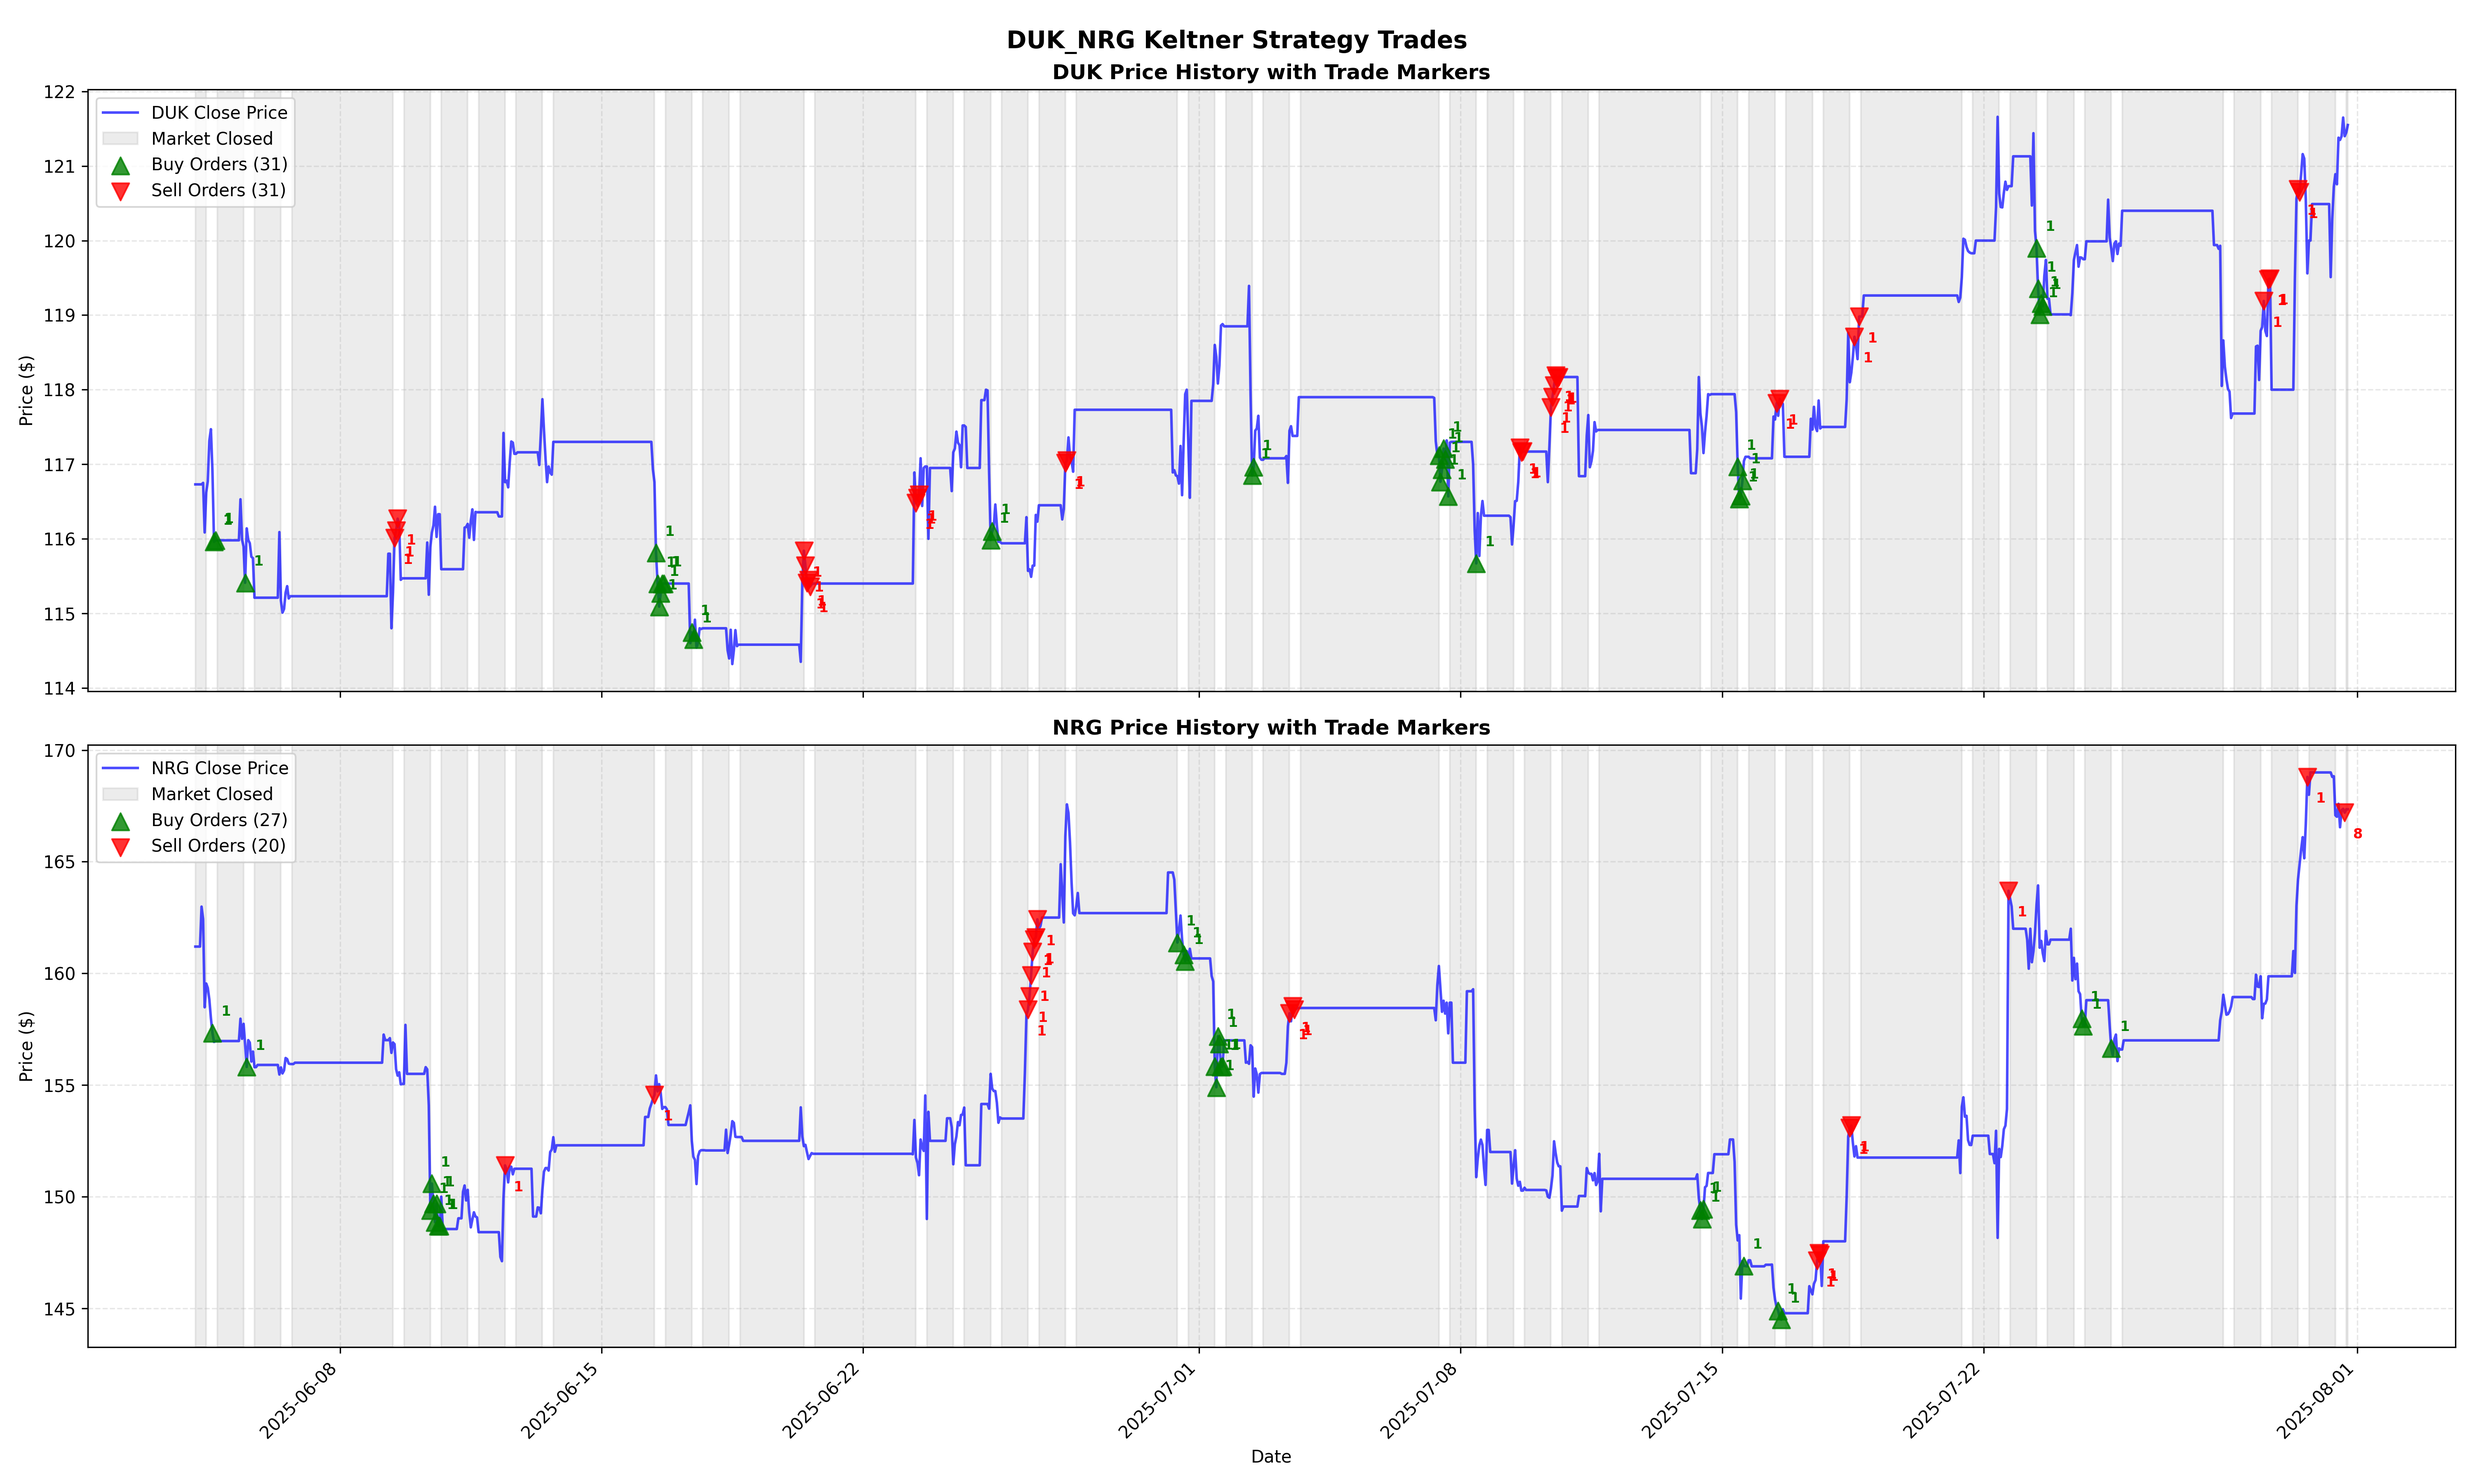
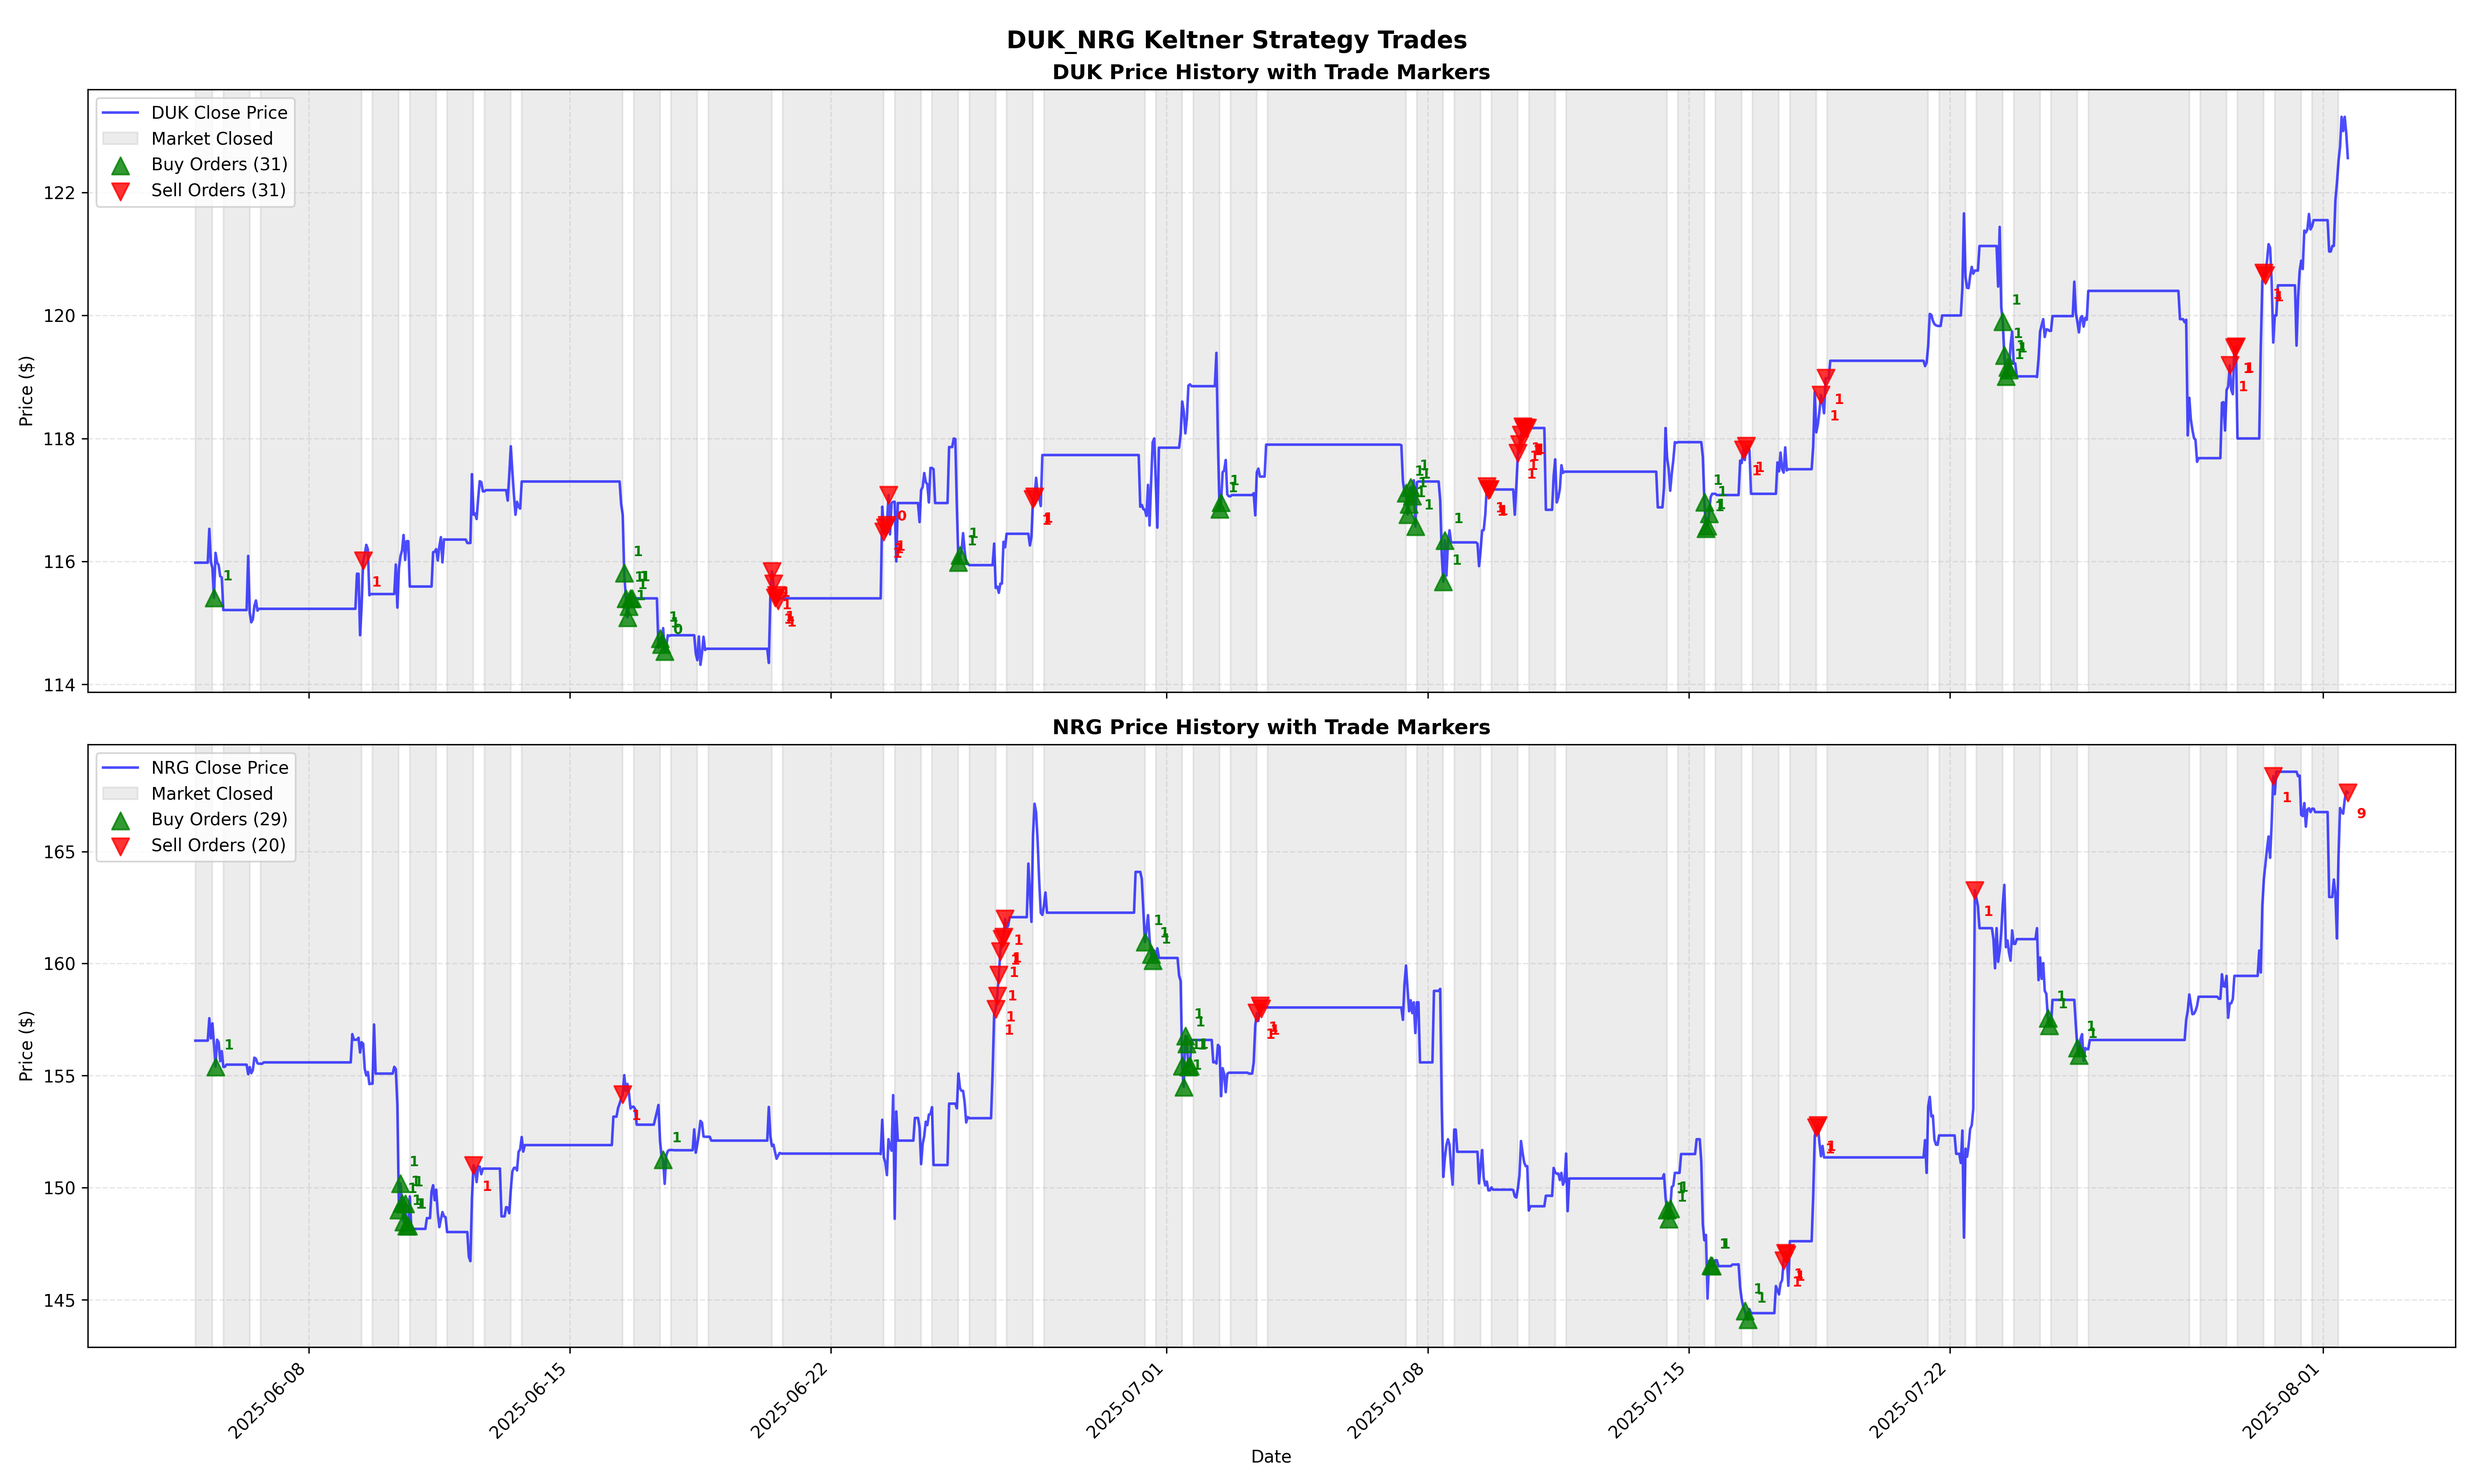
more documentation

diff --git a/src/backtester.py b/src/backtester.py
@@ -21,7 +21,7 @@ class Position(Enum):
     NEUTRAL = 0
 
 
-QUANTITY_PRECISION = 4
+QUANTITY_PRECISION = 2
 
 
 class Order:
@@ -249,7 +249,8 @@ class EventBacktester(ABC):
         # check if overdraft is allowed
         adjusted = False
         if not self.allow_overdraft and order.position == Position.LONG and self.get_state()["cash"] < order.get_value():
-            order.quantity = self.get_state()["cash"] // order.price
+            order.quantity = round(
+                self.get_state()["cash"] / order.price, QUANTITY_PRECISION)
             adjusted = True
         # check if shorting is allowed
         if not self.allow_short and order.position == Position.SHORT and self.get_state()[order.symbol] < order.quantity:
@@ -259,7 +260,7 @@ class EventBacktester(ABC):
         # don't place an order if the value is less than the minimum trade value
         if order.get_value() < self.min_trade_value:
             logger.debug(
-                f"Skipping {order.position.name} order for {order.symbol} because trade value is less than ${self.min_trade_value:.2f}.")
+                f"Skipping {order.position.name} order for {order.symbol} because trade value ${order.get_value():.2f} < ${self.min_trade_value:.2f}.")
             return
         else:
             logger.debug(
@@ -830,7 +831,7 @@ class EventBacktester(ABC):
 
         return fig
 
-    def plot_trade_history(self, figsize: tuple = (20, 12), save_plot: bool = True, show_plot: bool = False, title: str = "Trade History", summary_stats: bool = False) -> plt.Figure:
+    def plot_trade_history(self, figsize: tuple = (20, 12), save_plot: bool = True, show_plot: bool = False, title: str = "Trade History", summary_stats: bool = False, show_quantity: bool = True) -> plt.Figure:
         """
         Plot the price history with trade markers showing buy and sell orders.
 
@@ -918,10 +919,11 @@ class EventBacktester(ABC):
 
                         # Add quantity annotations for buy orders
                         for idx, row in buy_orders.iterrows():
-                            ax.annotate(f"{row['quantity']:.0f}",
-                                        (idx, row['price']),
-                                        xytext=(5, 10), textcoords='offset points',
-                                        fontsize=8, color='green', weight='bold')
+                            if show_quantity:
+                                ax.annotate(f"{row['quantity']:.0f}",
+                                            (idx, row['price']),
+                                            xytext=(5, 10), textcoords='offset points',
+                                            fontsize=8, color='green', weight='bold')
 
                     # Plot sell orders (red triangles pointing down)
                     if not sell_orders.empty:
@@ -931,10 +933,11 @@ class EventBacktester(ABC):
 
                         # Add quantity annotations for sell orders
                         for idx, row in sell_orders.iterrows():
-                            ax.annotate(f"{row['quantity']:.0f}",
-                                        (idx, row['price']),
-                                        xytext=(5, -15), textcoords='offset points',
-                                        fontsize=8, color='red', weight='bold')
+                            if show_quantity:
+                                ax.annotate(f"{row['quantity']:.0f}",
+                                            (idx, row['price']),
+                                            xytext=(5, -15), textcoords='offset points',
+                                            fontsize=8, color='red', weight='bold')
 
                 # Format the subplot
                 ax.set_title(

diff --git a/examples/keltner_channel.py b/examples/keltner_channel.py
@@ -17,7 +17,8 @@ from src import *
 from src.backtester import EventBacktester, Order, Position
 from src.utilities import dash, get_logger
 
-logger = get_logger("keltner_channel")
+logger = get_logger()
+logger.setLevel(logging.DEBUG)
 
 
 class KeltnerChannelBacktester(EventBacktester):
@@ -68,7 +69,6 @@ class KeltnerChannelBacktester(EventBacktester):
 
 
 if __name__ == "__main__":
-    logger.setLevel(logging.DEBUG)
     symbols = ["DUK", "NRG"]
     utility_symbols = [
         "NEE", "EXC", "D", "PCG", "XEL",

diff --git a/README.md b/README.md
@@ -70,6 +70,15 @@ backtester = EventBacktester(
 )
 ```
 
+| Parameter | Explanation |
+| -| -|
+| `active_symbols`| symbols that can be traded with the backtester|
+| `cash` |  cash to start with |
+| `allow_short`| allow shorting assets |
+| `allow_overdraft`| allow overdrafting the bank. if this is false, when a user places an order that would cause an overdraft, the backtester will attempt to reduce the order to be purchaseable with the currently available funds |
+| `min_trade_value` | minimum trade value to submit |
+| `market_hours_only` | only place trades during market hours and on business days |
+
 #### Required Methods to Implement
 
 **1. `generate_order(bars: pd.DataFrame, index: pd.Timestamp) -> Order`**
@@ -103,7 +112,7 @@ def generate_order(self, bars: pd.DataFrame, index: pd.Timestamp) -> Order:
 
 **2. `update_step(bars: pd.DataFrame, index: pd.Timestamp)`**
 - **Purpose**: Update strategy state, indicators, or other variables
-- **Input**: Full bar history and current timestamp
+- **Input**: Full bar history (including training data if provided) and current timestamp
 - **Called**: Before `generate_order` for each bar
 
 ```python
@@ -114,8 +123,8 @@ def update_step(self, bars: pd.DataFrame, index: pd.Timestamp):
 ```
 
 **3. `precompute_step(bars: pd.DataFrame)` (Optional)**
-- **Purpose**: Precompute indicators or setup strategy state using training data
-- **Input**: Training bar data
+- **Purpose**: Precompute indicators or setup strategy state using training data. This should seamlessly transition the backtester into the test data without any missing time steps. For example, a strategy may rely on lagged indicators or need to have a model trained on training data. This enables the backtester to handle a reliance on historical data for test data.
+- **Input**: Training bar data.
 - **Called**: Once during `load_train_bars()`
 
 ```python
@@ -202,14 +211,14 @@ The framework calculates comprehensive performance metrics:
 
 An example performance analysis output:
 ```
-trading_period_start       2025-06-04 14:00:00-04:00
-trading_period_end         2025-07-31 16:00:00-04:00
-return_on_investment                        1.107842
+trading_period_start       2025-06-05 11:00:00-04:00
+trading_period_end         2025-08-01 16:00:00-04:00
+return_on_investment                        1.120285
 max_drawdown_percentage                          0.0
 start_portfolio_value                         2000.0
-end_portfolio_value                        2215.6849
-win_rate                                    0.793103
-buy_and_hold_return                         1.039722
+end_portfolio_value                        2240.5709
+win_rate                                    0.839506
+buy_and_hold_return                         1.063721
 ```
 
 ### Plots
@@ -223,27 +232,6 @@ The framework includes a number of plotting methods for visualizing the performa
 ![Equity Curve](img/DUK_NRG_Keltner_Strategy_Equity_Curve.png)
 ![Performance Analysis](img/DUK_NRG_Keltner_Strategy_Performance.png)
 ![Trade History](img/DUK_NRG_Keltner_Strategy_Trades.png)
-
-### Risk Management Features
-
-- **Position Sizing**: Automatic quantity adjustment based on available cash
-- **Short Selling Control**: Optional restriction on short positions
-- **Overdraft Protection**: Prevent negative cash balances
-- **Minimum Trade Size**: Skip trades below threshold
-- **Market Hours Filtering**: Optional restriction to market hours only
-
-### Advanced Features
-
-#### Walk-Forward Optimization
-The framework includes a `WalkForwardBacktester` class for implementing walk-forward optimization strategies (currently under development). NOT YET IMPLEMENTED.
-
-#### Market Hours Handling
-Built-in support for market hours detection and optional trading restrictions during non-market hours.
-
-#### Flexible Order Management
-- Automatic position closing at end of backtest
-- Support for partial fills and position adjustments
-- Comprehensive trade history tracking
 
 ## Examples
 
@@ -273,18 +261,9 @@ pip install -e .
 
 ### Tests
 
-Run all tests with:
+Make sure all tests pass before making a PR. Run all tests with:
 ```bash
 python -m unittest discover tests
-```
-
-### Uploading to PyPI
-
-[To upload the package to PyPI](https://packaging.python.org/en/latest/tutorials/packaging-projects/), run the following commands to build and upload the package. You will need to have a [PyPI account](https://pypi.org/account/register/).
-
-```bash
-python -m build
-twine upload dist/*
 ```
 
 
